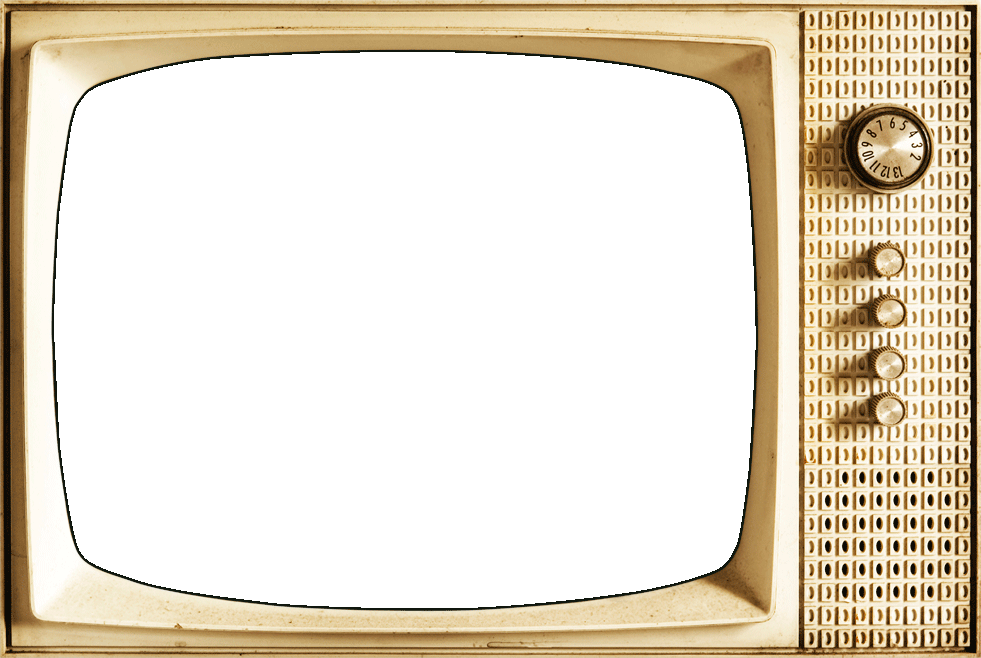
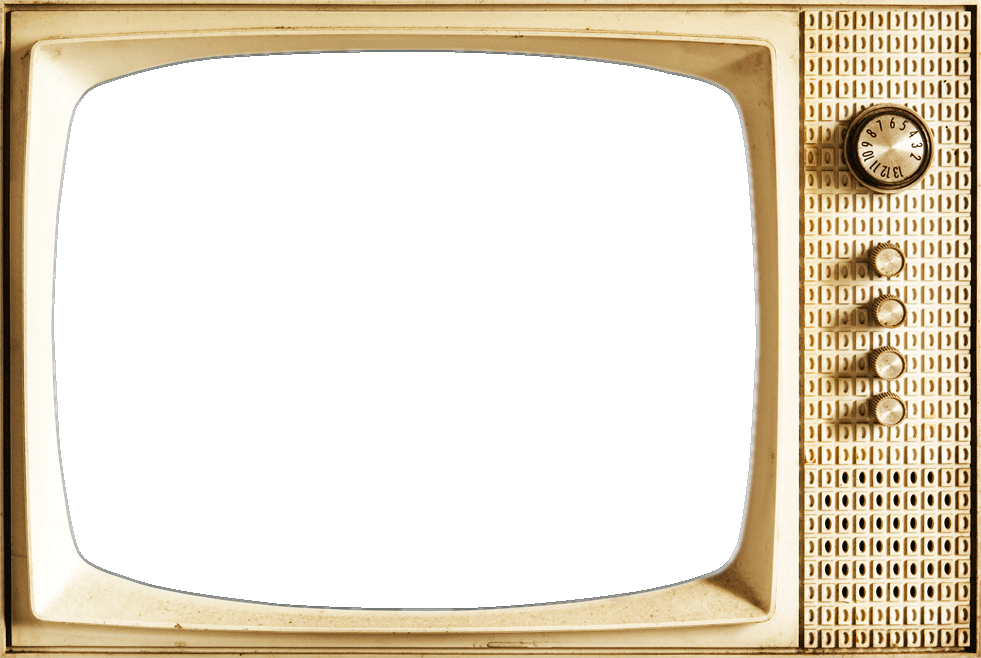
Create canvas layer with curved edges and transparency

diff --git a/script.js b/script.js
@@ -1,26 +1,72 @@
 const imagesToFind = Array.from(document.querySelectorAll('.find'));
 
+canvas();
+
 imagesToFind.forEach(image => {
   image.addEventListener('click', () => {
     image.style.display = 'none';
+
+    canvas();
   })
 })
 
-const canvas = document.querySelector(".canvas");
-const ctx = canvas.getContext('2d');
 
-window.addEventListener('load', () => {
-  canvas.width = window.innerWidth/1.8;
-  canvas.height = canvas.width * 0.82;
-})
+function canvas() {
 
-window.addEventListener('resize', () => {
-  canvas.width = window.innerWidth/1.8;
-  canvas.height = canvas.width * 0.82;
-})
+  const canvas = document.querySelector(".canvas");
 
-canvas.style.zIndex = '3';
+  canvas.style.display = 'block';
+  
+  canvas.width = window.innerWidth/1.98;
+  canvas.height = canvas.width * 0.792;
 
-const tv = document.querySelector('.tv');
+  window.addEventListener('resize', () => {
+    canvas.width = window.innerWidth/1.98;
+    canvas.height = canvas.width * 0.792;
+  })
+  canvas.style.zIndex = '4';
+  document.querySelector('.tv').style.zIndex = '3';
 
-tv.style.zIndex = '4';
+  const ctx = canvas.getContext('2d');
+
+  let isPainting = false;
+
+  function startStroke(e) {
+    isPainting = true;
+    draw(e);
+  }
+
+  function finishStroke() {
+    isPainting = false;
+    ctx.beginPath();
+  }
+
+  function resetStroke() {
+    isPainting = false;
+    ctx.beginPath();
+  }
+
+  function draw(e) {
+    if (!isPainting) return;
+    ctx.lineWidth = '20';
+    ctx.strokeStyle = 'black';
+    ctx.lineJoin = 'round';
+    ctx.lineCap = 'round';
+    ctx.globalCompositeOperation = 'hue';
+    //change this later?
+
+    ctx.lineTo(e.offsetX, e.offsetY);
+    ctx.stroke();
+    ctx.beginPath();
+    ctx.moveTo(e.offsetX, e.offsetY);
+  }
+
+    // MOUSE EVENTS:
+    canvas.addEventListener('mousedown', startStroke);
+    canvas.addEventListener('mouseup', finishStroke);
+    canvas.addEventListener('mousemove', draw);
+    canvas.addEventListener('mouseout', resetStroke);
+
+    //TOUCH EVENTS:
+
+}

diff --git a/style.css b/style.css
@@ -35,14 +35,26 @@ h1 {
   font-size: 4vw;
 }
 
-.canvas {
-  display: none;
-  background-color: white;
+.canvas-background {
+  width: 55vw;
+  height: calc(70vw * (47/70));
   position: absolute;
-  top: 1%;
-  left: 1%;
+  z-index: 3;
+  background: url("images/mountain-coloring-page.jpeg");
+  background-size: cover;
+  background-repeat: no-repeat;
 }
 
+.canvas {
+  /* display: none; */
+  background-color: white;
+  opacity: 40%;
+  position: absolute;
+  top: 7%;
+  left: 5%;
+  z-index: 4;
+  border-radius: 85px/65px;
+}
 
 .main-display {
   position: relative;
@@ -236,6 +248,10 @@ footer {
 @media screen and (min-width: 1200px) {
   h2 {
     font-size: 4vh;
+  }
+
+  .canvas {
+    border-radius: 160px/130px;
   }
 }
 

diff --git a/index.html b/index.html
@@ -22,6 +22,7 @@
     <h1>Search & Paint</h1>
   </header>
   <div class="main-display">
+    <div class="canvas-background"></div>
     <canvas class="canvas"></canvas>
     <img class="room" src="images/room.jpeg" alt="room background">
     <img class="tv" src="images/old-tv.png" alt="Old TV as frame">
